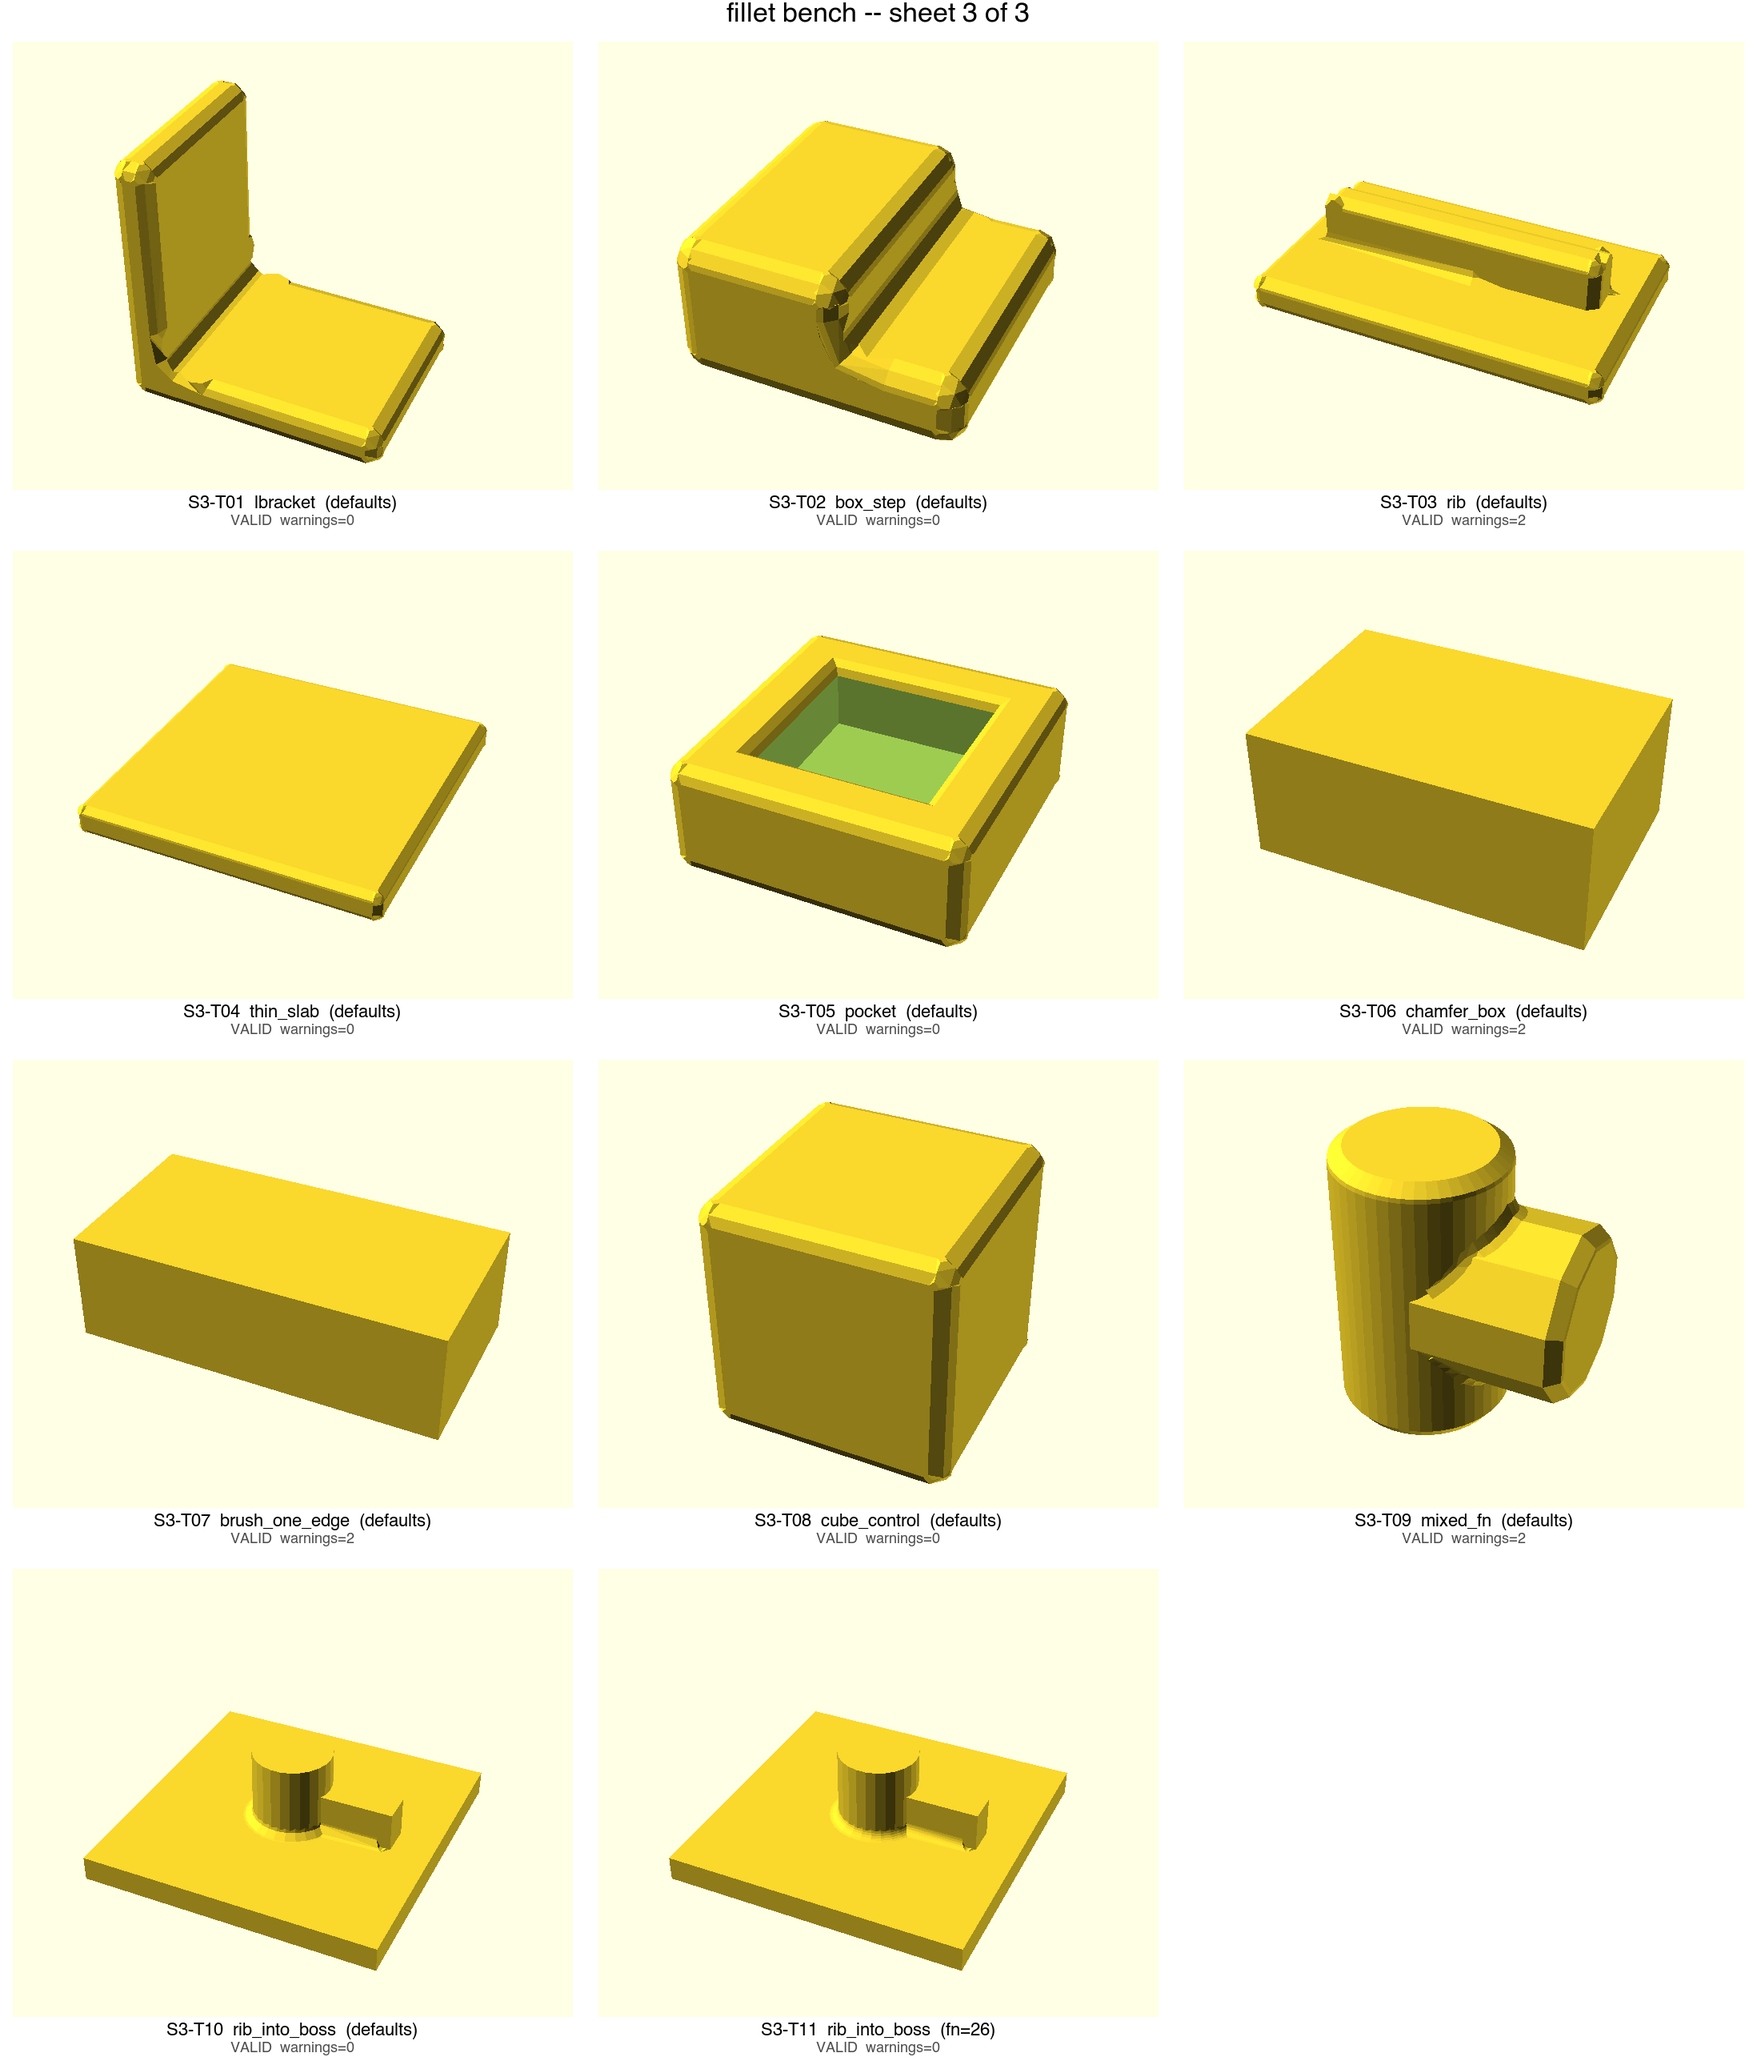
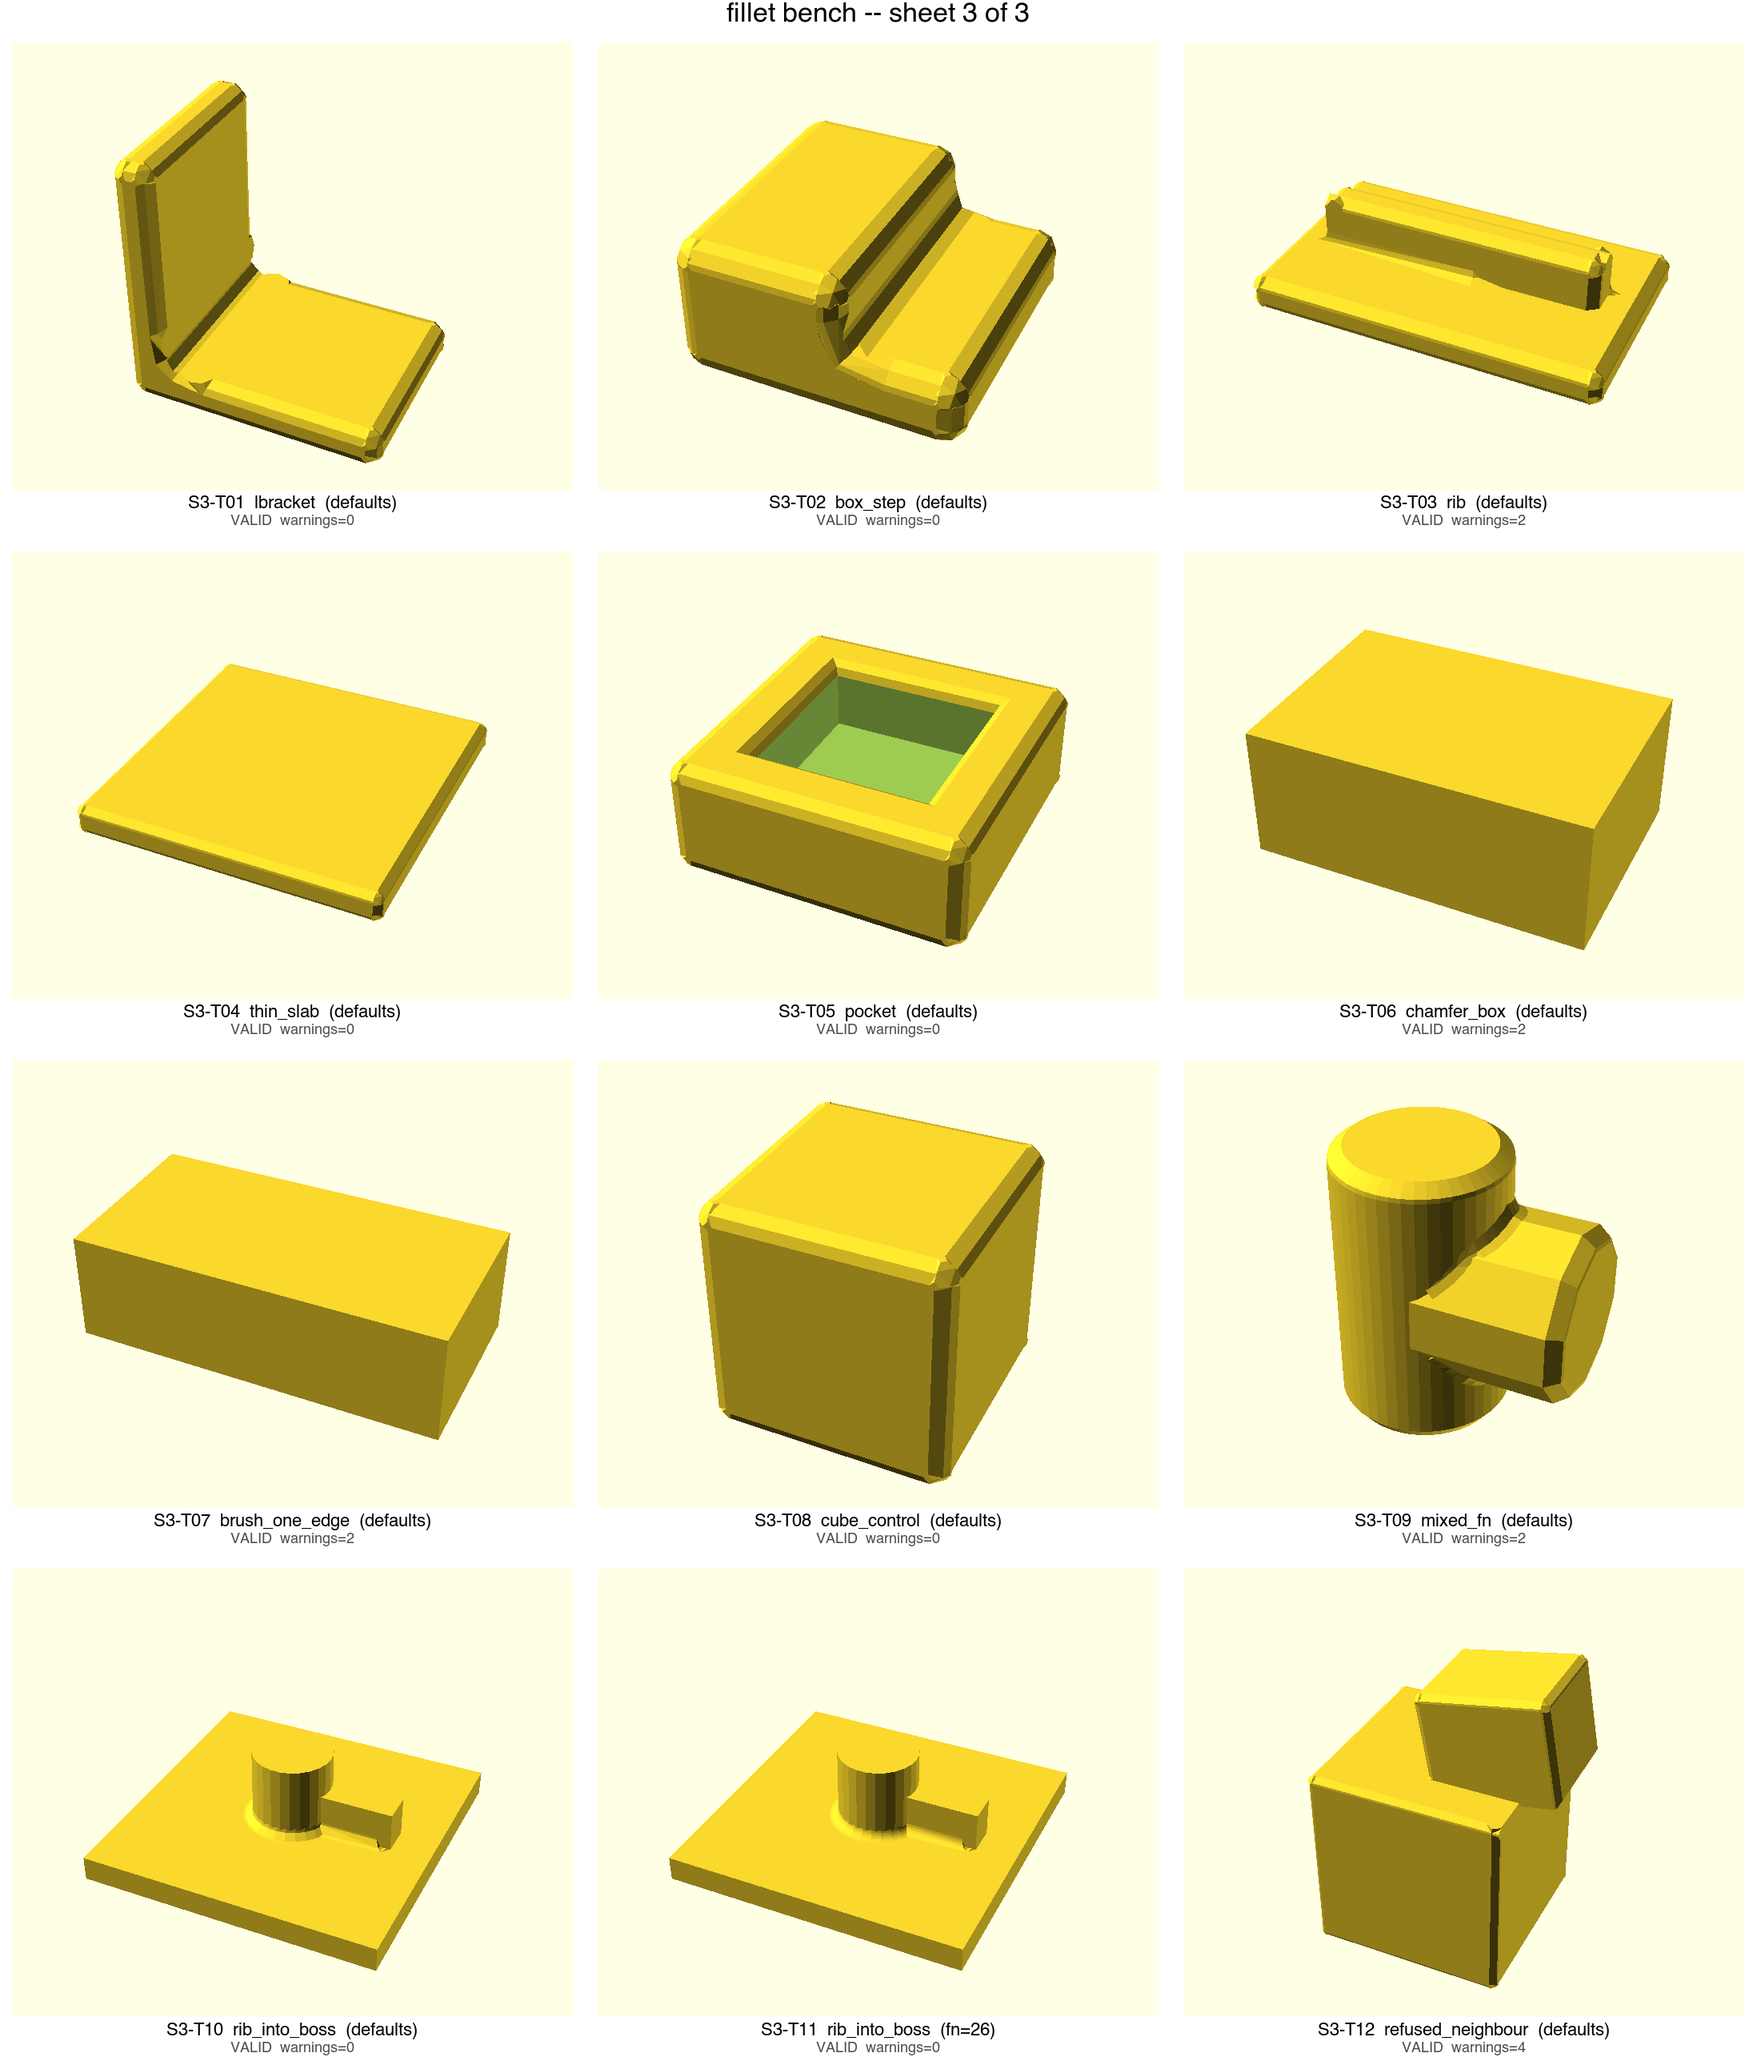
Retire bnd as the A3 instrument: it cannot fire on a Manifold export
The bench README said a bead truncated and left open shows up in bnd and nowhere
else, and A3 was to be measured with it. That is false by construction, not by
accident. fillet() hands back a Manifold boolean, so every edge of the exported
mesh carries exactly two faces; mesh.py's weld can only merge edges, so every
count it arrives at is a sum of twos; and the one face it drops is one welding
collapsed, which contributes two to the single edge it has left. No edge can
come out carried by exactly one face.

The measurements agree with the parity argument from both sides: 36 of 36 tiles
read bnd=0, and the non-manifold edges that do turn up are carried by four
faces, never three.

So D24 -- a bead truncated and left open at a refused neighbour -- was never
going to be caught here whether or not it was present. What a truncated bead
actually costs is a visible blunt end on a solid that is still closed, which is
A5's contact sheet and not A1's numbers.

Full bench at 916d03557, --backend=manifold --render, weld tolerance 1e-6: 36 of
36 VALID, no tile changing validity in either direction. Unit suite 2230
assertions / 88 test cases, green. ctest -R fillet 21/21.

Claude-Session: https://claude.ai/code/session_01VKgbH1GZcoGktiN6YiGWMY

Changed region(s): [[0.6503, 0.7442, 1.0, 1.0]]

diff --git a/fillet-bench/mesh.py b/fillet-bench/mesh.py
@@ -17,8 +17,12 @@ Reported per mesh:
 
     v e f       vertices, edges, faces after welding
     comp        connected components, by shared edge
-    bnd         edges carried by exactly one face -- an open surface. A bead
-                truncated and left open shows up here and nowhere else.
+    bnd         edges carried by exactly one face -- an open surface. NOTE that
+                this is identically zero on anything OpenSCAD's Manifold backend
+                exports: every edge of a Manifold is carried by two faces,
+                welding only sums those counts, and a face welding collapses
+                contributes an even count to the one edge it has left. Use it on
+                meshes from elsewhere; it cannot fail on these. README says more.
     nonman      edges carried by more than two faces
     chi         Euler characteristic v - e + f
     genus       (2*comp - chi)/2, meaningful only when bnd and nonman are 0.

diff --git a/fillet-bench/README.md b/fillet-bench/README.md
@@ -62,10 +62,33 @@ Models carrying no curvature render once; `expect.txt` marks them `-`.
 
 | | |
 |---|---|
-| `bnd` | edges on exactly one face — an open surface. **A bead truncated and left open (D24) shows up here and nowhere else.** |
+| `bnd` | edges on exactly one face — an open surface. **Identically zero on anything this pipeline exports; see below.** |
 | `nonman` | edges on more than two faces |
 | `chi` | Euler characteristic. **Odd is a proof of invalidity**, not a measurement — no closed orientable surface has one |
 | `genus` | reported only when the mesh is closed and orientable |
+
+### `bnd` cannot fire here, and this README used to say it could
+
+The claim that a truncated open bead shows up in `bnd` and nowhere else is
+**false**, and it is false by construction rather than by accident:
+
+- `fillet()` builds its tool as a `manifold::Manifold` and hands the caller a
+  Manifold boolean of it against the target. Every edge of that mesh is carried
+  by exactly two faces.
+- `mesh.py` welds vertices, which can only *merge* edges, so every count it ends
+  up with is a sum of twos.
+- The one face it drops is one welding collapsed, and such a face contributes an
+  even count — two — to the single edge it has left.
+
+So no edge can come out carried by exactly one face. `bnd` is zero on a
+correct solid and zero on a broken one, and 36 of 36 tiles read zero. The
+non-manifold edges that do appear are carried by **four** faces, never three,
+which is the same parity argument seen from the other side.
+
+What a truncated bead actually costs is a *visible* blunt end on a solid that is
+still closed — so A1's numbers cannot see it and A5's contact sheet is what it
+is for. The one topological fault found at a refusal site to date is a sliver
+edge carried by four faces, and it shows up in `nonman`, not `bnd`.
 
 **Weld tolerance is stated on every line and is not a detail** — the same mesh has
 read 205 non-manifold edges at 1e-5 and 0 at 1e-6 in this effort. Default 1e-6,

diff --git a/fillet-feature-design/TRAPS.md b/fillet-feature-design/TRAPS.md
@@ -63,6 +63,7 @@ refusal counts beside every number. One reported win was byte-identical inertnes
 | 7 | `-o /dev/null` | makes OpenSCAD skip the render and report zero calls |
 | 8 | `timeout(1)` | does not exist on this machine; made an export loop report 19/19 FAILED |
 | 9 | Catch2 name splitting | splits on commas, so an unescaped exclusion excludes nothing and silently reports the full total |
+| 10 | `bnd` as the D24 / A3 instrument | identically zero on every Manifold-backend export, by a parity argument, so it reads clean on a correct solid and on a broken one alike. `fillet-bench/README.md` gives the argument |
 
 ## Corrections to the earlier record
 

diff --git a/fillet-bench/sheets/INDEX.md b/fillet-bench/sheets/INDEX.md
@@ -39,3 +39,4 @@ Generated by `sheet.sh`. Tile ids are stable while expect.txt keeps its order.
 | S3-T09 | mixed_fn | (defaults) | VALID v=553 e=1653 f=1102 comp=1 bnd=0 nonman=0 chi=2 genus=0 tol=1e-06 | 2 |
 | S3-T10 | rib_into_boss | (defaults) | VALID v=265 e=789 f=526 comp=1 bnd=0 nonman=0 chi=2 genus=0 tol=1e-06 | 0 |
 | S3-T11 | rib_into_boss | -D FNSET=26 | VALID v=441 e=1317 f=878 comp=1 bnd=0 nonman=0 chi=2 genus=0 tol=1e-06 | 0 |
+| S3-T12 | refused_neighbour | (defaults) | VALID v=356 e=1062 f=708 comp=1 bnd=0 nonman=0 chi=2 genus=0 tol=1e-06 | 4 |
